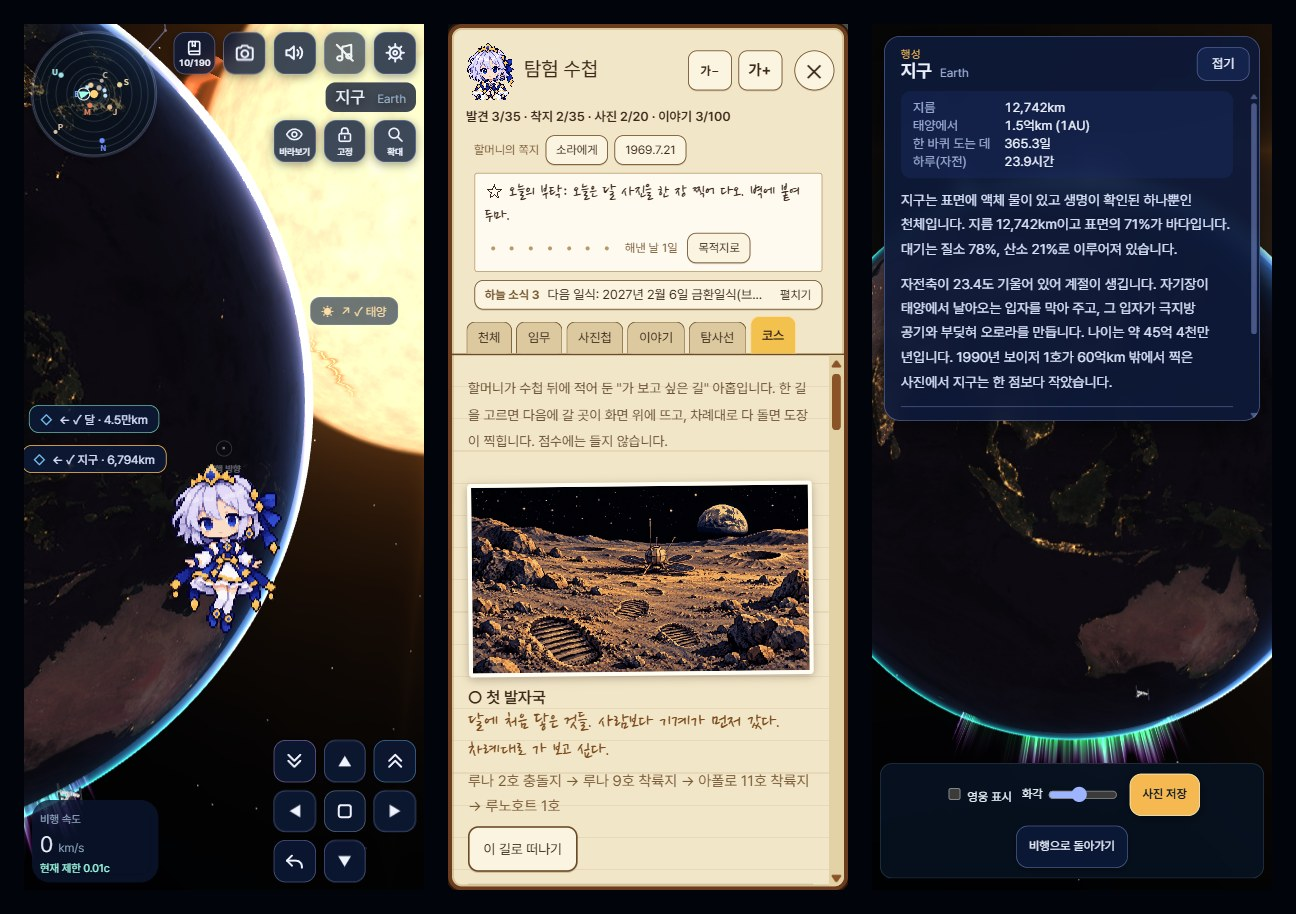
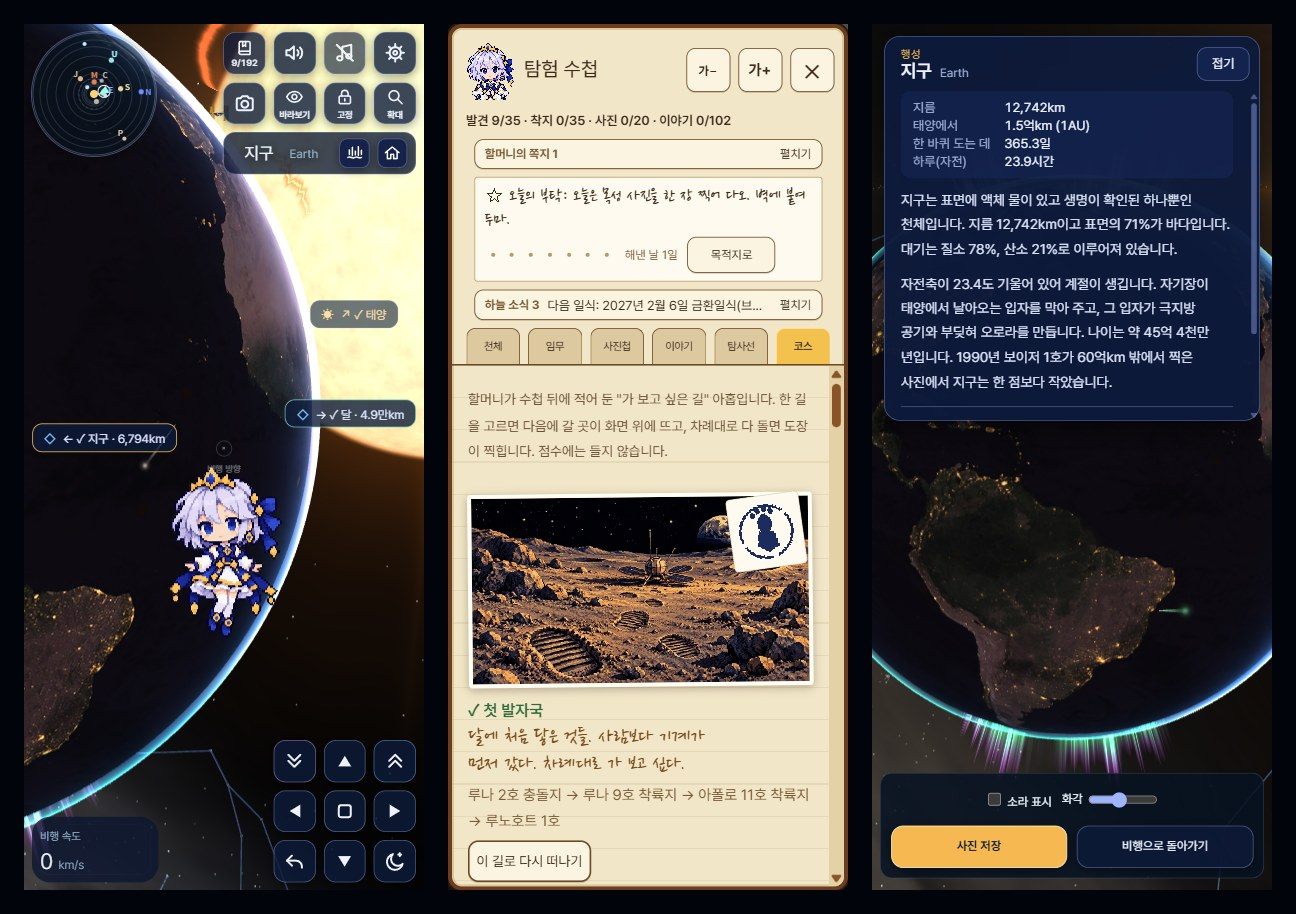
v0.2.108: a ninth hidden key on the About page goes to Hale-Bopp, both makers' names open the row; the README picture retaken with the present layout

diff --git a/src/main.js b/src/main.js
@@ -1146,8 +1146,8 @@ ${STORY_MORE[target.id]}` : told };
     },
   });
   hud.showSelection(named(selectedId));
-  // A way to the places in the auroras kept out of sight: pressing "우주토끼" among the
-  // makers on the settings' About page shows a row of keys, one for each world that has
+  // A way to the places in the auroras kept out of sight: pressing the makers' names
+  // ("우주한량, 우주토끼"; at first "우주토끼" alone) on the settings' About page shows a row of keys, one for each world that has
   // an aurora (the user, 2026-10-08: "설정 -> about -> 우주토끼 누르면, 오로라 이동 메뉴
   // 띄워주고, 거기에 버튼들 나열해줘"). A key shuts the settings, chooses that world and
   // takes her to the place in its aurora, as the key on its name plate does: once the
@@ -1165,6 +1165,24 @@ ${STORY_MORE[target.id]}` : told };
         selectedId = id;
         hud.showSelection(named(id));
         goHome('aurora');
+      }, { once: true });
+      $('settings').close();
+    });
+    $('auroraKeys').append(key);
+  }
+  // A ninth key, to the comet with the longest tail now, at the place a jump to it
+  // arrives (core/vista.js COMET_VIEW; the user, 2026-10-08: "헤일-밥 위성도 about 코로나
+  // 버튼에 추가시켜줘", and of its name, the whole one being too long for a key:
+  // "헤일 위성"이라고만 해). It may be jumped to though she has not been there.
+  {
+    const key = document.createElement('button');
+    key.className = 'alone';
+    key.textContent = t('헤일 혜성');
+    key.addEventListener('click', () => {
+      $('settings').addEventListener('close', () => {
+        selectedId = 'haleBopp';
+        hud.showSelection(named('haleBopp'));
+        teleport('haleBopp', true, false, null, true);
       }, { once: true });
       $('settings').close();
     });

diff --git a/index.html b/index.html
@@ -351,7 +351,7 @@
     <section data-tab="about" hidden>
       <div id="aboutTitle"><img class="titleArt" src="/assets/ui/title.png" alt="Space Oddity" width="609" height="146"><span>할머니의 수첩</span></div>
       <dl>
-      <dt>만든 사람</dt><dd>우주한량, <button id="rabbitKey" aria-expanded="false">우주토끼</button></dd>
+      <dt>만든 사람</dt><dd><button id="rabbitKey" aria-expanded="false">우주한량, 우주토끼</button></dd>
       <dt class="auroraMenu" hidden>오로라 이동</dt><dd class="auroraMenu auroraRow" id="auroraKeys" hidden></dd>
       <dt>만든 이유</dt><dd><time datetime="2026-09-30">2026.9.30</time> 새벽에 코딩을 하다가 문득 "우주멍"을 때리고 싶었다.</dd>
       <dt>개인정보</dt><dd>모으지 않습니다. 기록은 자신의 핸드폰이나 PC에만 남고, 서버로 보내지 않습니다. <a id="privacyLink" href="./privacy.html" target="_blank" rel="noopener">처리방침 읽기</a></dd>

diff --git a/style.css b/style.css
@@ -5360,8 +5360,9 @@ html.gaze #gazeButton {
   opacity:.7;
 }
 
-/* "우주토끼" among the makers is a key that looks like the words beside it; it shows the
-   row of eight keys to the places in the auroras: four in a row, two rows. */
+/* The makers' names are one key that looks like plain words (first "우주토끼" alone; the
+   user, 2026-10-08: "우주한량, 우주토끼"를 누르면 오로라 이동 버튼들 나오게 해줘); it
+   shows the row of keys to the places in the auroras, four in a row, and to a comet. */
 #settings dd button#rabbitKey {
   display:inline;
   min-width:0;
@@ -5381,6 +5382,11 @@ html.gaze #gazeButton {
   display:flex;
   flex-wrap:wrap;
   gap:4px;
+}
+
+/* (A key alone on the last row is as wide as the others, not the whole row.) */
+#settings dd.auroraRow button.alone {
+  flex:0 1 calc(25% - 3px);
 }
 
 #settings dd.auroraRow[hidden] {

diff --git a/docs/Space-Oddity-상세기획서.md b/docs/Space-Oddity-상세기획서.md
@@ -617,6 +617,7 @@ v0.1.37, 눈으로 보지 못했던 것을 다시 찍어 보고 고친 것(`.pla
 - 2026-10-04에 여덟 묶음(32장)을 더 받았다. 사용자가 "그래픽 개선할거 또 없나? 챗gpt 사용량 많이 남았는데"라고 물어 여덟 가지를 적어 냈고 "모두 다 하자"고 했다. 볼거리 알림 때의 몸짓 셋(`see-up` 손차양을 하고 올려다봄, `see-point` 가리킴, `see-wow` 두 손을 볼에 대고 놀람), 말하는 그림(`talk`), 쉬는 동작 넷(`rest-yawn`, `rest-note`, `rest-scope`, `rest-snack`)이다. 주문 글은 `assets/codex/sprites3/` 에 있고(저장소에는 올리지 않는다), 여덟 장 모두 처음 받은 것을 그대로 썼다. 볼거리 알림이 뜨면 3초 동안 몸짓을 하고(`seeFor`: 하늘의 것은 올려다보고, 번쩍이거나 갑작스러운 것에는 놀라고, 나머지는 가리킨다), 말풍선이 떠 있는 동안에는 `talk` 가 1초에 6장으로 돈다. 둘 다 멈춰서 카메라를 볼 때만 나온다. 이로써 56묶음과 낱장 5장, 229장, 2.7MB다. 아래는 그 전의 기록이다.
 - 2026-10-05에 쉬는 동작 열 묶음(40장, 0.5MB)을 더 받았다(v0.1.188, 사용자: "10개 더 넣자.. GPT 토큰 많이 남아", 보고 나서 "다 넣어"). 차 마시기(`rest-tea`), 사진 찍기(`rest-photo`), 종이학 날리기(`rest-crane`), 지도 보기(`rest-map`), 엽서 읽기(`rest-letter`), 비눗방울 불기(`rest-bubble`), 무릎을 안고 둥실 떠 있기(`rest-float`), 양말 올리기(`rest-socks`), 토끼 인형 안기(`rest-plush`), 헤드폰으로 음악 듣기(`rest-music`)다. 쉬는 동작은 17 → 27가지가 되었다. 열 장 모두 처음 받은 것을 썼다. 종이학과 비눗방울은 머리 위에 자리를 두느라 소라가 작게 그려져 와서, 몸만 1.2배와 1.15배로 키우고 학과 방울은 크기를 둔 채 그림 안으로 옮겼다(`assets/codex/rest4/fit.py`, 저장소에는 올리지 않는다). 사진 찍기는 6px 내렸다. 이제 소라 그림은 모두 269장, 3.5MB다.
 - 2026-10-06에 쉬는 동작 열 묶음(40장)을 마지막으로 더 받았다(v0.1.193, 사용자: "gpt 그래픽 토큰 많이 남았다. 빨리 주문해", 보기 전에 "다 넣어", 그리고 "10개 오면... 그걸로 끝하자"). 뜨개질(`rest-knit`), 풍선껌(`rest-gum`), 그림 그리기(`rest-draw`), 요요(`rest-yoyo`), 머리 빗기(`rest-comb`), 별 저글링(`rest-juggle`), 우산(`rest-umbrella`), 별 세기(`rest-count`), 실뜨기(`rest-string`), 손뼉(`rest-clap`)이다. 쉬는 동작은 27 → 37가지이고, 여기서 끝낸다. 열 장 모두 처음 받은 것을 썼다. 별 저글링은 1.15배, 요요는 1.08배, 우산은 1.06배로 몸을 키웠다(`assets/codex/rest5/fit.py`). 우산은 더 키우면 우산 꼭대기가 그림 밖으로 잘려서, 그 동작에서는 소라가 8%쯤 작다. 이제 소라 그림은 모두 309장, 4.0MB다.
+- 2026-10-08에 설정 About의 숨은 단추 줄에 헤일-밥 혜성으로 가는 아홉째 단추를 넣고, README 맨 위 그림을 다시 찍었다(v0.2.108). 사용자: "헤일-밥 위성도 about 코로나 버튼에 추가시켜줘", "제목은 \"헤일 위성\"이라고만 해. (너무 길어서 그래)". 사용자는 오로라를 코로나라고 부른다. 위성이 아니라 혜성이어서 단추 글자는 "헤일 혜성"으로 했다(영어 Hale-Bopp, 일본어 ヘール彗星, 중국어 海尔彗星). 누르면 설정이 닫히고 헤일-밥을 고른 뒤 순간 이동해 꼬리가 다 보이는 옆자리(`COMET_VIEW`)에 내린다. 가 본 적이 없어도 간다. 단추는 셋째 줄에 혼자 놓이며 다른 단추와 같은 너비다(`style.css`의 `.alone`). 숨은 단추 줄을 여는 글자도 "우주토끼"에서 "우주한량, 우주토끼" 전체로 넓혔다(사용자: "\"우주한량, 우주토끼\"를 누르면 오로라 이동 버튼들 나오게 해줘"). "바뀐 것들"에는 적지 않았다. README 그림은 단추가 여덟이던 옛 화면이라 사용자가 "찍어"라고 했다. `.playwright-mcp/readme-shot-c.js`로 400x866 화면 셋을 찍어 1296x914로 이었다: 지구 밤 쪽 6,794km 위의 비행 화면, 수첩의 코스 갈래, 지구 확대 관찰. 시험용 단추 둘은 숨기고 찍었다.
 - 2026-10-08에 꼬리가 있는 혜성으로 순간 이동하면 내리는 자리를 바꿨다(v0.2.107). 사용자가 헤일-밥 혜성의 이름표를 눌러 순간 이동하고 그림과 함께: "혜성 버튼 눌러서 워프했는데, 혜성 안 보임". 내리는 자리가 핵에서 120km라 검은 돌덩이만 화면에 찼고, 꼬리와 머리의 빛은 6만 km 안에서 줄어드는데 그 거리에서는 10%였다. 핵에서 옆으로 4만 5천 km 떨어진 자리를 보여 주자 사용자가 거기서 화면을 돌려 놓고: "워프하면 대충 이 정도 느낌 나는 곳으로 이동시켜줘. 물론 혜성이 이동하니까, 워프 지점은 계속 변하겠지? 저 모양을 유지시켜줘". 그 자리와 보는 방향을 [해 반대쪽, 혜성이 온 쪽, 그 둘에 수직] 틀에 적어 두어(`core/vista.js`의 `COMET_VIEW`, `warpSpot`) 혜성이 어디에 있든 같은 모습이다: 머리가 소라 왼쪽에 있고 두 꼬리가 오른쪽 위로 뻗는다. 먼지 꼬리가 혜성이 온 쪽으로 기울므로 틀의 둘째 축을 그쪽에 맞췄다(`main.js`가 1초 뒤의 자리를 계산해 움직이는 방향을 넘긴다). 4만 5천 km는 천체가 소라를 데리고 가는 거리(5만 km) 안이라 혜성이 달아나지 않는다. 해에서 5AU보다 멀어 꼬리가 없는 혜성(지금의 핼리)은 전과 같이 핵 곁에 내린다. 헤일-밥으로 순간 이동해 화면으로 보았고, 67P는 보지 않았다. README도 이날 지금의 게임에 맞췄다(사용자: "readme 업데이트해놔"): 그날로 8 → 109장면, 문장 약 2,600 → 3,700개, 볼거리 서른 → 예순 가지 남짓, 소라 그림 229 → 333장, 게임 파일 33 → 36MB, 오른쪽 아래 단추 여덟 → 아홉, 그리고 명당·오로라·그림엽서 두 줄과 Tab 키를 넣었다.
 - 2026-10-08에 혜성의 꼬리가 길이 방향에서 부채꼴 네 조각으로 보이던 것을 고쳤다(v0.2.106). 수성의 나트륨 꼬리를 고친 뒤 남겨 둔 일이었고, 사용자가 "혜성꼬리 보여줘"라고 해서 헤일-밥 혜성을 태양 쪽 8만 km에서 꼬리를 따라 보여 주니 푸른 가스 꼬리와 누런 먼지 꼬리가 머리에서 X자로 벌어져 보였다. 사용자: "넣어". 꼬리 둘 다 길이를 따라 십자로 겹친 평면 두 장이다(`render/comet.js`). 핵에서 소라로 가는 방향과 꼬리 방향 사이 각의 사인이 가스 꼬리는 0.15(9도) 아래, 먼지 꼬리는 0.25(14도) 아래면 그리지 않고, 0.5(30도)와 0.6(37도)부터 온전히 그린다(`core/comet.js`의 `TAIL_END_ON`, `tailShown`). 먼지 꼬리는 더 넓게 퍼져서 더 일찍 지운다. 머리의 둥근 빛과 분출은 그대로다. 사용자의 창에서 5도, 14도, 22도, 35도로 보았다: 5도에서는 머리의 점만, 14도에서는 희미한 자국, 35도에서는 한 줄기 꼬리가 보인다. 옆에서 본 모습은 전과 같다. 시험은 617 → 618개다.
 - 2026-10-08에 수성의 나트륨 꼬리가 길이 방향에서 네 조각으로 보이던 것을 고쳤다(v0.2.105). 수성 뒤(해 반대쪽)에서 수성을 보던 사용자가 그림과 함께: "수성은 농구공이야? 4면이 다른 색이네". 꼬리는 길이를 따라 십자로 겹친 평면 두 장인데(`render/glows.js`), 꼬리 속에서 길이 방향으로 보면 두 장이 눈을 지나는 모서리로 서서 반쪽 넷이 화면을 부채꼴 넷으로 나누고, 겹친 수만큼 밝기가 달랐다. 수성에서 소라로 가는 방향과 꼬리 방향 사이 각의 사인이 0.12(7도) 아래면 꼬리를 그리지 않고 0.45(27도)부터 온전히 그린다(`core/glows.js`의 `SODIUM_TAIL.endOn`). 4도, 12도, 22도, 80도에서 화면으로 보았다(`.playwright-mcp/sodium-end-a.js`): 앞의 둘은 검은 원만 보이고, 80도에서는 꼬리가 전과 같다. 혜성의 꼬리도 같은 방식이지만 손대지 않았다. 수성의 해돋이(해가 66도 크기)를 명당 후보로 보여 주던 중에 나온 말이고, 이아페투스, 유로파, 미마스도 함께 보였으나 넣은 것은 없다(미마스: "굳이 없어도 됨").

diff --git a/README.md b/README.md
@@ -4,7 +4,7 @@
 
 주소: https://destory1984.github.io/oddity_claude/
 
-![휴대전화 화면 셋. 왼쪽은 지구의 밤 쪽 6,794km 위의 비행 화면으로, 지구 가장자리로 해가 떠오르고 가운데에 캐릭터 소라가 있다. 왼쪽 위에 미니맵, 오른쪽 위에 단추 다섯과 그 아래 목표 이름과 단추 셋이 있다. 오른쪽 맨 아래 구석에 단추 여덟이 세 줄로 모여 있고(맨 위 줄 양 끝에 후진과 전진, 가운데에 정지를 둔 이동 단추 넷, 맨 아래 줄 왼쪽에 뒤 보기), 왼쪽 아래에 속도가 있다. 가운데는 탐험 수첩의 코스 갈래, 오른쪽은 지구를 확대 관찰하며 읽을거리를 띄운 화면이다](docs/screenshot.jpg)
+![휴대전화 화면 셋. 왼쪽은 지구의 밤 쪽 6,794km 위의 비행 화면으로, 지구 가장자리로 해가 떠오르고 가운데에 캐릭터 소라가 있다. 왼쪽 위에 미니맵, 오른쪽 위에 단추 여덟이 두 줄로(수첩, 효과음, 배경 음악, 설정, 그 아래 사진, 바라보기, 고정, 확대) 있고 그 아래 목표 이름 칸에 오로라와 집 단추가 붙어 있다. 오른쪽 맨 아래 구석에 단추 아홉이 세 줄로 모여 있고(맨 위 줄 양 끝에 후진과 전진, 가운데에 정지를 둔 이동 단추 넷, 맨 아래 줄 왼쪽에 뒤 보기, 오른쪽에 우주멍), 왼쪽 아래에 속도가 있다. 가운데는 탐험 수첩의 코스 갈래, 오른쪽은 지구를 확대 관찰하며 읽을거리를 띄운 화면이다](docs/screenshot.jpg)
 
 게임 안의 사진 모드로 찍은 풍경이다. 소라와 단추만 끄고 그대로 찍었다.
 
@@ -87,9 +87,9 @@
 
 - 화면 드래그: 방향 전환
 - 오른쪽 아래의 단추 아홉(세 줄): 가운데가 정지, 그 위·아래·왼쪽·오른쪽이 이동 단추로 누르는 동안 그쪽으로 미끄러진다. 맨 위 줄 왼쪽이 후진, 오른쪽이 전진, 맨 아래 줄 왼쪽이 뒤 보기, 오른쪽이 우주멍(글자와 단추를 모두 숨긴다)이다
-- 이름표를 누르면 그것을 고른다. 이름 칸에 명당, 오로라, 집 단추가 붙는 천체가 있다. 오른쪽 위 칸의 그림 단추 셋: 눈(바라보기)은 그쪽으로 돌고, 자물쇠(목표 고정)는 화면에 붙잡아 두고, 돋보기(확대 관찰)는 가까이에서 돌려 보며 읽을거리를 띄운다
+- 이름표를 누르면 그것을 고른다. 이름 칸에 명당, 오로라, 집 단추가 붙는 천체가 있다. 오른쪽 위 둘째 줄의 그림 단추 셋: 눈(바라보기)은 그쪽으로 돌고, 자물쇠(목표 고정)는 화면에 붙잡아 두고, 돋보기(확대 관찰)는 가까이에서 돌려 보며 읽을거리를 띄운다
 - 미니맵을 누르면 큰 지도가 열려 갈 곳을 고르고 순간 이동한다
-- 위쪽 단추 다섯: 수첩, 사진, 효과음, 배경 음악, 설정(도움말은 설정의 둘째 쪽). 수첩이나 설정을 열거나 다른 앱으로 가면 게임이 저절로 멈춘다
+- 위쪽 단추: 첫 줄에 수첩, 효과음, 배경 음악, 설정(도움말은 설정의 둘째 쪽), 둘째 줄 맨 왼쪽에 사진. 수첩이나 설정을 열거나 다른 앱으로 가면 게임이 저절로 멈춘다
 
 ## 휴대전화에 앱으로 설치
 
